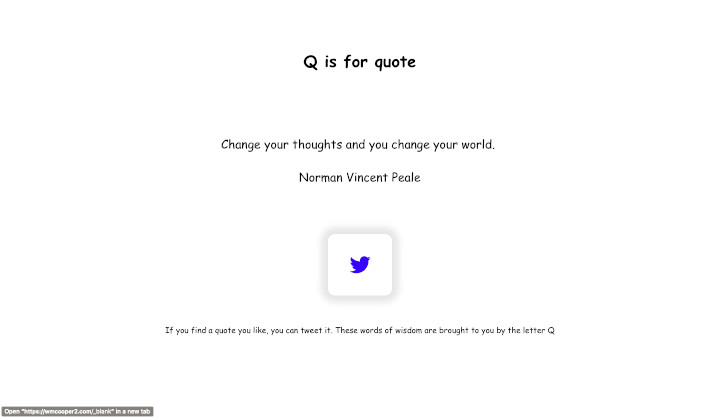
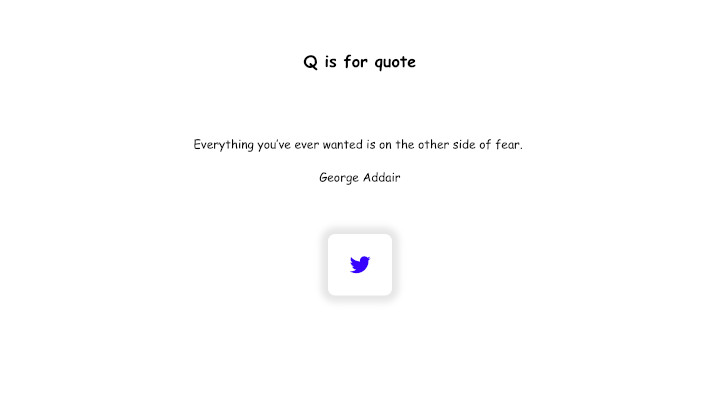
Removed footer. Changed screenshot.

diff --git a/src/App.js b/src/App.js
@@ -7,7 +7,12 @@ class App extends React.Component {
   constructor(props) {
     super(props);
     this.state = {
-      quote: "Click for words of wisdom",
+      quote: (
+        <React.Fragment>
+          <p>Click for here words of wisdom</p>
+          <p>Tweet a quote that you like with the little birdy below.</p>
+        </React.Fragment>
+      ),
       author: "",
       allQuotes: Object.entries(quotes),
       color: "rbg(89, 160, 236)",
@@ -51,10 +56,6 @@ class App extends React.Component {
             />
           </a>
         </div>
-        <footer>
-          If you find a quote you like, you can tweet it. These words of wisdom
-          are brought to you by the letter Q
-        </footer>
       </React.Fragment>
     );
   }

diff --git a/src/App.css b/src/App.css
@@ -22,9 +22,6 @@ a {
   text-decoration: none;
   color: blue;
   border-radius: 1vw;
-}
-
-a:hover {
   box-shadow: 0 0 1vw 1vw rgba(0, 0, 0, 0.1);
 }
 
@@ -49,6 +46,7 @@ footer {
 
 #thequote {
   display: flex;
+  flex-direction: column;
   text-align: center;
   justify-content: center;
   align-items: center;
